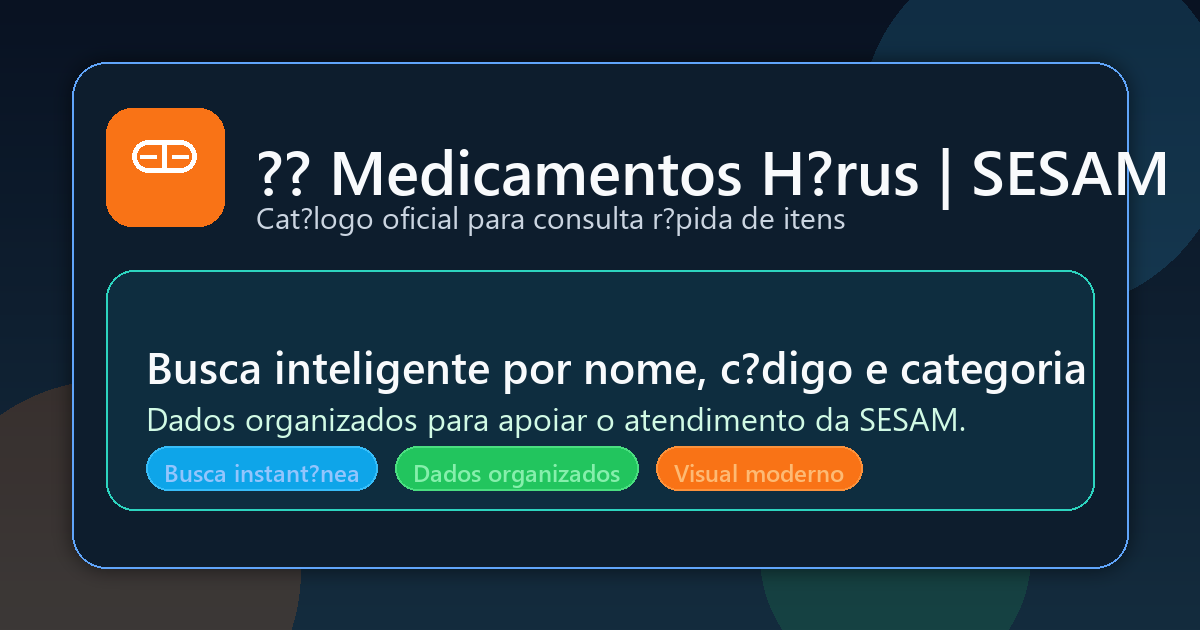
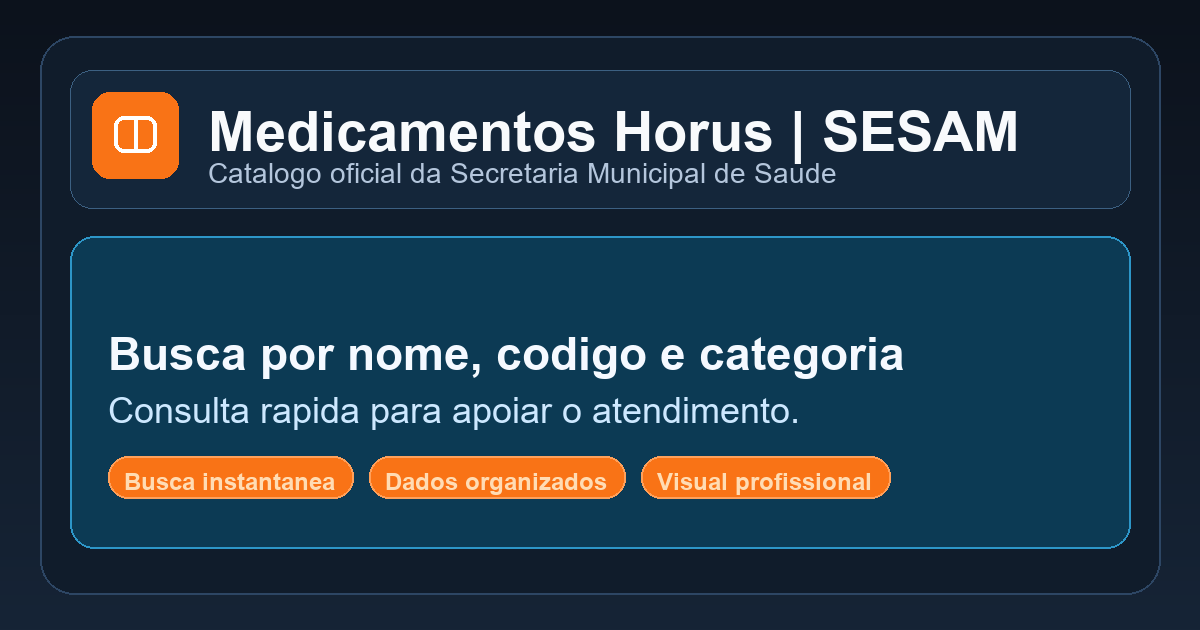
fix(meta): redesenhar social card para preview limpo

diff --git a/index.html b/index.html
@@ -19,8 +19,8 @@
     <meta property="og:title" content="&#128138; Medicamentos Hórus | SESAM">
     <meta property="og:description" content="Catálogo de medicamentos Hórus com busca por nome, código e categoria da SESAM.">
     <meta property="og:url" content="https://erosbarbosa.github.io/medicamentos/">
-    <meta property="og:image" content="https://erosbarbosa.github.io/medicamentos/social-card.png?v=4">
-    <meta property="og:image:secure_url" content="https://erosbarbosa.github.io/medicamentos/social-card.png?v=4">
+    <meta property="og:image" content="https://erosbarbosa.github.io/medicamentos/social-card.png?v=5">
+    <meta property="og:image:secure_url" content="https://erosbarbosa.github.io/medicamentos/social-card.png?v=5">
     <meta property="og:image:type" content="image/png">
     <meta property="og:image:width" content="1200">
     <meta property="og:image:height" content="630">
@@ -28,7 +28,7 @@
     <meta name="twitter:card" content="summary_large_image">
     <meta name="twitter:title" content="&#128138; Medicamentos Hórus | SESAM">
     <meta name="twitter:description" content="Catálogo de medicamentos Hórus com busca por nome, código e categoria da SESAM.">
-    <meta name="twitter:image" content="https://erosbarbosa.github.io/medicamentos/social-card.png?v=4">
+    <meta name="twitter:image" content="https://erosbarbosa.github.io/medicamentos/social-card.png?v=5">
     <meta name="twitter:image:alt" content="Preview do catálogo de medicamentos Hórus com identidade visual da SESAM">
     <link rel="preconnect" href="https://fonts.googleapis.com">
     <link rel="preconnect" href="https://fonts.gstatic.com" crossorigin>
